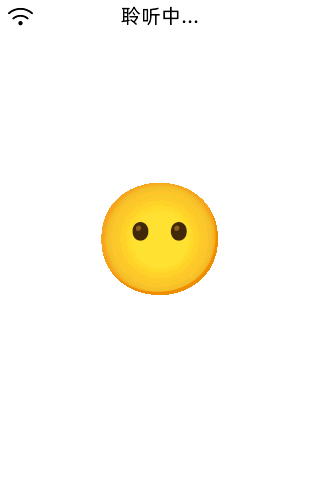
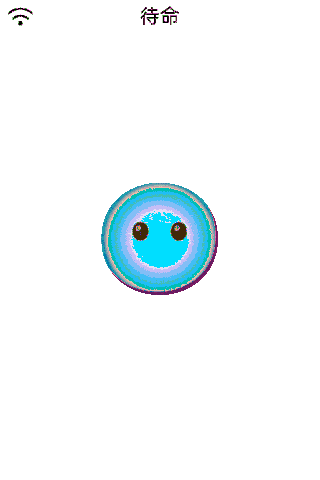
fix

Changed region(s): [[0.3125, 0.375, 0.6875, 0.625], [0.375, 0.0, 0.5625, 0.0625], [0.0312, 0.0, 0.0938, 0.0625]]

diff --git a/scripts/uart_snapshot_to_png.py b/scripts/uart_snapshot_to_png.py
@@ -46,7 +46,7 @@ def read_header(port, deadline):
         if version != 1 or header_size != HEADER_SIZE:
             window.clear()
             continue
-        if pixel_format != 2 or not width or not height or data_size != width * height * 2:
+        if pixel_format != 1 or not width or not height or data_size != width * height * 2:
             raise ValueError("invalid screenshot header")
         return width, height, data_size, crc32
     raise TimeoutError("no ONXS screenshot header received")
@@ -54,7 +54,7 @@ def read_header(port, deadline):
 
 def save_png(pixels, width, height, output):
     rgb = bytearray(width * height * 3)
-    for index, (pixel,) in enumerate(struct.iter_unpack(">H", pixels)):
+    for index, (pixel,) in enumerate(struct.iter_unpack("<H", pixels)):
         offset = index * 3
         rgb[offset] = ((pixel >> 11) & 0x1F) * 255 // 31
         rgb[offset + 1] = ((pixel >> 5) & 0x3F) * 255 // 63

diff --git a/main/boards/common/uart_snapshot_service.cc b/main/boards/common/uart_snapshot_service.cc
@@ -19,7 +19,7 @@ constexpr char kTag[] = "UartSnapshot";
 struct __attribute__((packed)) SnapshotHeader {
     char magic[4];              // "ONXS"
     uint8_t version;            // 1
-    uint8_t pixel_format;       // 2 = RGB565 big-endian
+    uint8_t pixel_format;       // 1 = RGB565 little-endian
     uint16_t header_size;
     uint16_t width;
     uint16_t height;
@@ -82,7 +82,7 @@ void UartSnapshotService::SendSnapshot() {
     SnapshotHeader header{};
     std::memcpy(header.magic, "ONXS", sizeof(header.magic));
     header.version = 1;
-    header.pixel_format = 2;
+    header.pixel_format = 1;
     header.header_size = sizeof(SnapshotHeader);
     header.width = width;
     header.height = height;
